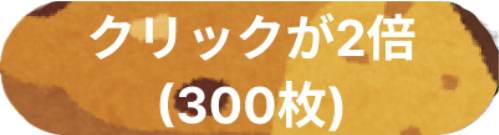
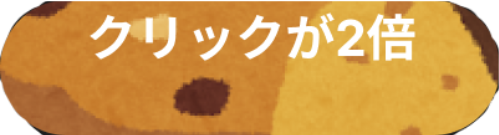
ダブルクリックのバランス調整をしました

diff --git a/script/main.js b/script/main.js
@@ -364,6 +364,7 @@ function cookieClick(scene, font, cookieLayer) {
     let gamblers = 0; // 賭けの倍率
     let waitUpdate = 0; // メッセージを投げてからの時間
     let doubleClicker = 0; // ダブルクリック数
+    let doubleClickPrice = 100; // ダブルクリックの値段
 
     function earn(num) {
         // 増えたクッキーの情報を更新
@@ -387,6 +388,7 @@ function cookieClick(scene, font, cookieLayer) {
             grandmaes = playersTable[g.game.selfId].buy[1];
             gamblers = playersTable[g.game.selfId].buy[2];
             doubleClicker = playersTable[g.game.selfId].buy[3];
+            doubleClickPrice = 100 ** (doubleClicker + 1);
             cookieCounter.text = score.toString() + "枚";
             cookieCounter.invalidate();
         }
@@ -511,6 +513,19 @@ function cookieClick(scene, font, cookieLayer) {
         opacity: 0,
         local: true,
     });
+    let doubleClickLabel = new g.Label({
+        scene: scene,
+        parent: cookieLayer,
+        font: font,
+        textColor: "White",
+        anchorX: 0.5,
+        anchorY: 0.5,
+        text: "(100枚)",
+        fontSize: 25,
+        x: 180,
+        y: 557,
+        local: true,
+    });
     cookie.onPointDown.add(function () {
         cookie.scaleX = 0.65;
         cookie.scaleY = 0.65;
@@ -525,51 +540,22 @@ function cookieClick(scene, font, cookieLayer) {
         cookie.modified();
     });
     autoClick.onPointDown.add(function () {
-        autoClick.opacity = 0;
-        autoClick.touchable = false;
-        autoClick.modified();
         lose(50);
-        shop.opacity = 0;
-        shop.touchable = false;
-        shopShowing = false;
-        shop.modified();
         g.game.raiseEvent(new g.MessageEvent({ buy: "autoClick" }));
         scene.asset.getAudioById("BuySE").play();
     });
     grandma.onPointDown.add(function () {
-        grandma.opacity = 0;
-        grandma.touchable = false;
-        grandma.modified();
         lose(150);
-        shop.opacity = 0;
-        shop.touchable = false;
-        shopShowing = false;
-        shop.modified();
         g.game.raiseEvent(new g.MessageEvent({ buy: "grandma" }));
         scene.asset.getAudioById("BuySE").play();
     });
     gambler.onPointDown.add(function () {
-        gambler.opacity = 0;
-        gambler.touchable = false;
-        gambler.modified();
         lose(500);
-        shop.opacity = 0;
-        shop.touchable = false;
-        shopShowing = false;
-        shop.modified();
         g.game.raiseEvent(new g.MessageEvent({ buy: "gambler" }));
         scene.asset.getAudioById("BuySE").play();
     });
     doubleClick.onPointDown.add(function () {
-        doubleClicker++;
-        doubleClick.opacity = 0;
-        doubleClick.touchable = false;
-        doubleClick.modified();
-        lose(300);
-        shop.opacity = 0;
-        shop.touchable = false;
-        shopShowing = false;
-        shop.modified();
+        lose(doubleClickPrice);
         g.game.raiseEvent(new g.MessageEvent({ buy: "doubleClick" }));
         scene.asset.getAudioById("BuySE").play();
     });
@@ -589,6 +575,8 @@ function cookieClick(scene, font, cookieLayer) {
             doubleClick.opacity = 0;
             doubleClick.touchable = false;
             doubleClick.modified();
+            doubleClickLabel.text = "";
+            doubleClickLabel.invalidate();
         } else {
             shopShowing = true;
             autoClick.opacity = 1;
@@ -603,6 +591,8 @@ function cookieClick(scene, font, cookieLayer) {
             doubleClick.opacity = 1;
             doubleClick.touchable = true;
             doubleClick.modified();
+            doubleClickLabel.text = `(${doubleClickPrice}枚)`;
+            doubleClickLabel.invalidate();
         }
     });
     scene.onUpdate.add(function () {
@@ -620,18 +610,13 @@ function cookieClick(scene, font, cookieLayer) {
         if (time % 150 == 0) {
             earn(grandmaes);
         }
-        if (score >= 50) {
-            shop.opacity = 1;
-            shop.touchable = true;
-            shop.modified();
-        } else {
-            shop.opacity = 0;
-            shop.touchable = false;
-            shop.modified();
-        }
         if (shopShowing && score >= 50) {
             autoClick.opacity = 1;
             autoClick.touchable = true;
+            autoClick.modified();
+        } else if (shopShowing && score < 50) {
+            autoClick.opacity = 0.5;
+            autoClick.touchable = false;
             autoClick.modified();
         } else {
             autoClick.opacity = 0;
@@ -664,18 +649,24 @@ function cookieClick(scene, font, cookieLayer) {
             gambler.touchable = false;
             gambler.modified();
         }
-        if (shopShowing && score >= 300) {
+        if (shopShowing && score >= doubleClickPrice) {
             doubleClick.opacity = 1;
             doubleClick.touchable = true;
             doubleClick.modified();
-        } else if (shopShowing && score < 300) {
+            doubleClickLabel.text = `(${doubleClickPrice}枚)`;
+            doubleClickLabel.invalidate();
+        } else if (shopShowing && score < doubleClickPrice) {
             doubleClick.opacity = 0.5;
             doubleClick.touchable = false;
             doubleClick.modified();
+            doubleClickLabel.text = `(${doubleClickPrice}枚)`;
+            doubleClickLabel.invalidate();
         } else {
             doubleClick.opacity = 0;
             doubleClick.touchable = false;
             doubleClick.modified();
+            doubleClickLabel.text = "";
+            doubleClickLabel.invalidate();
         }
     });
 
